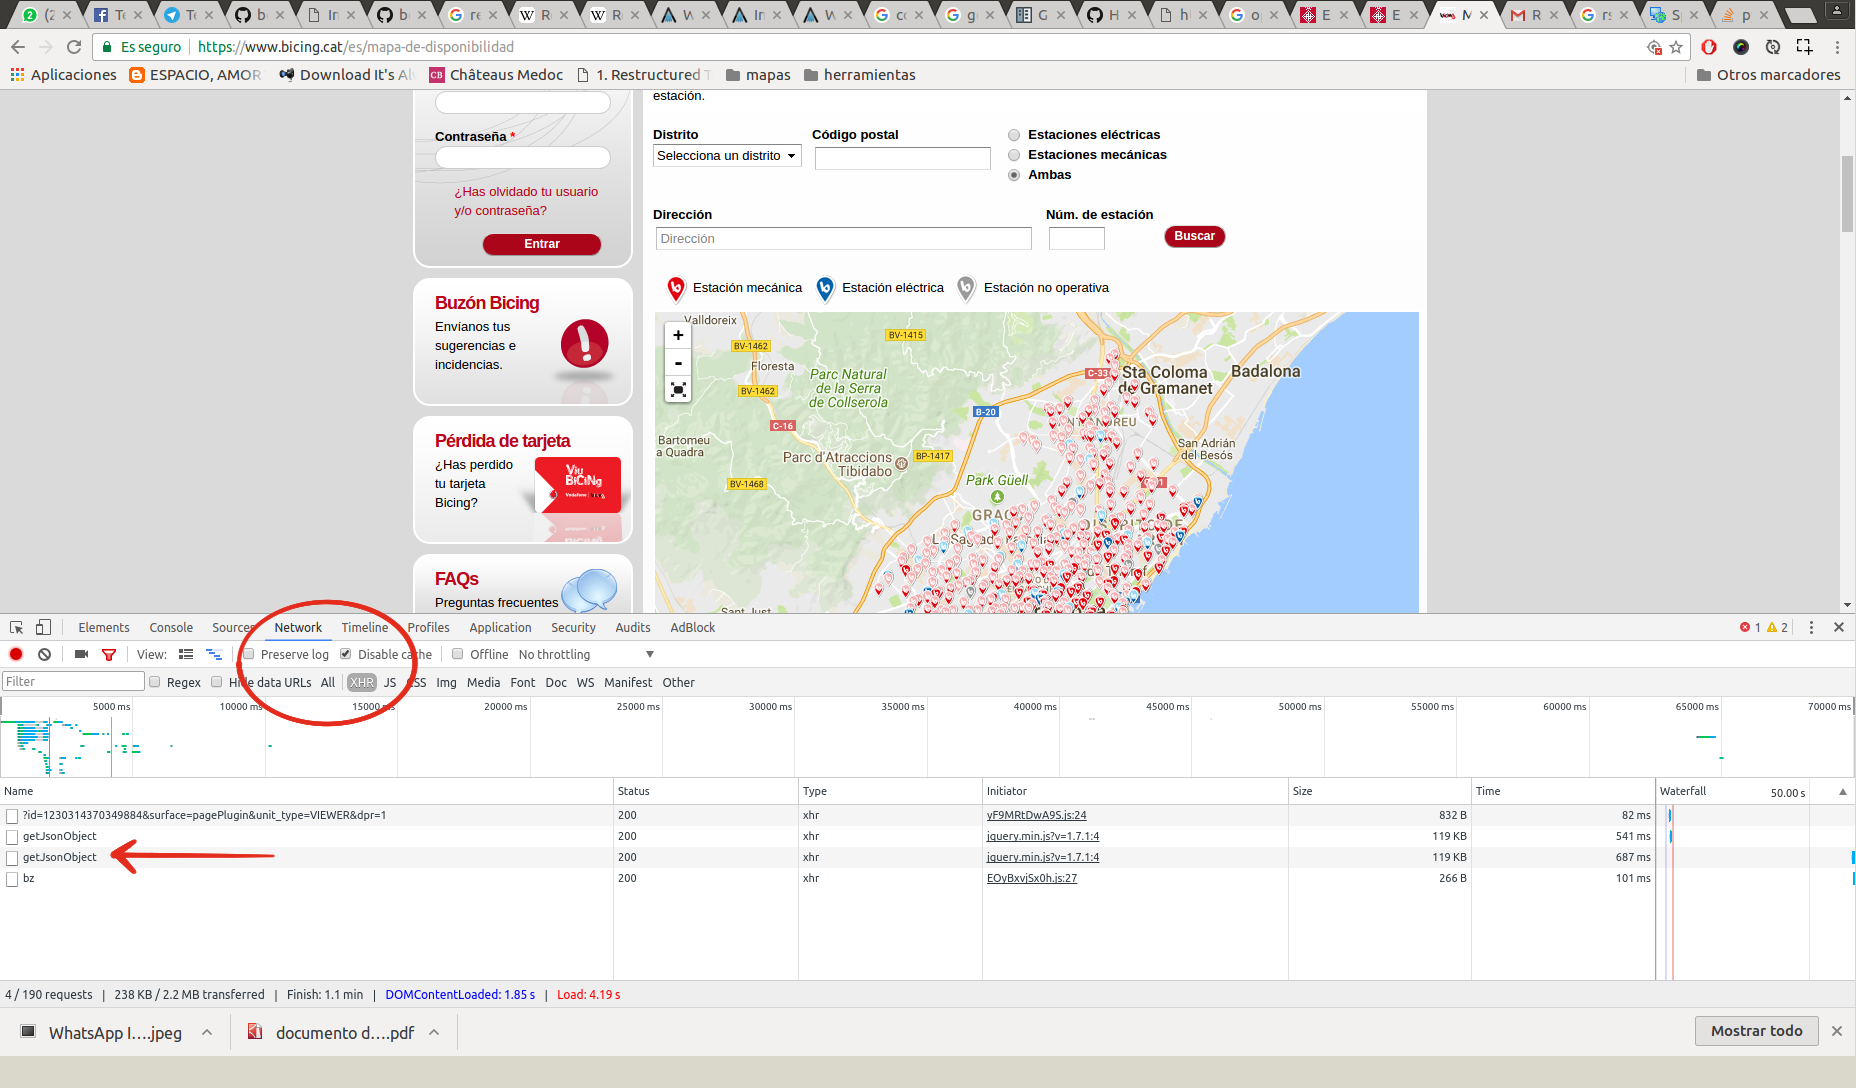
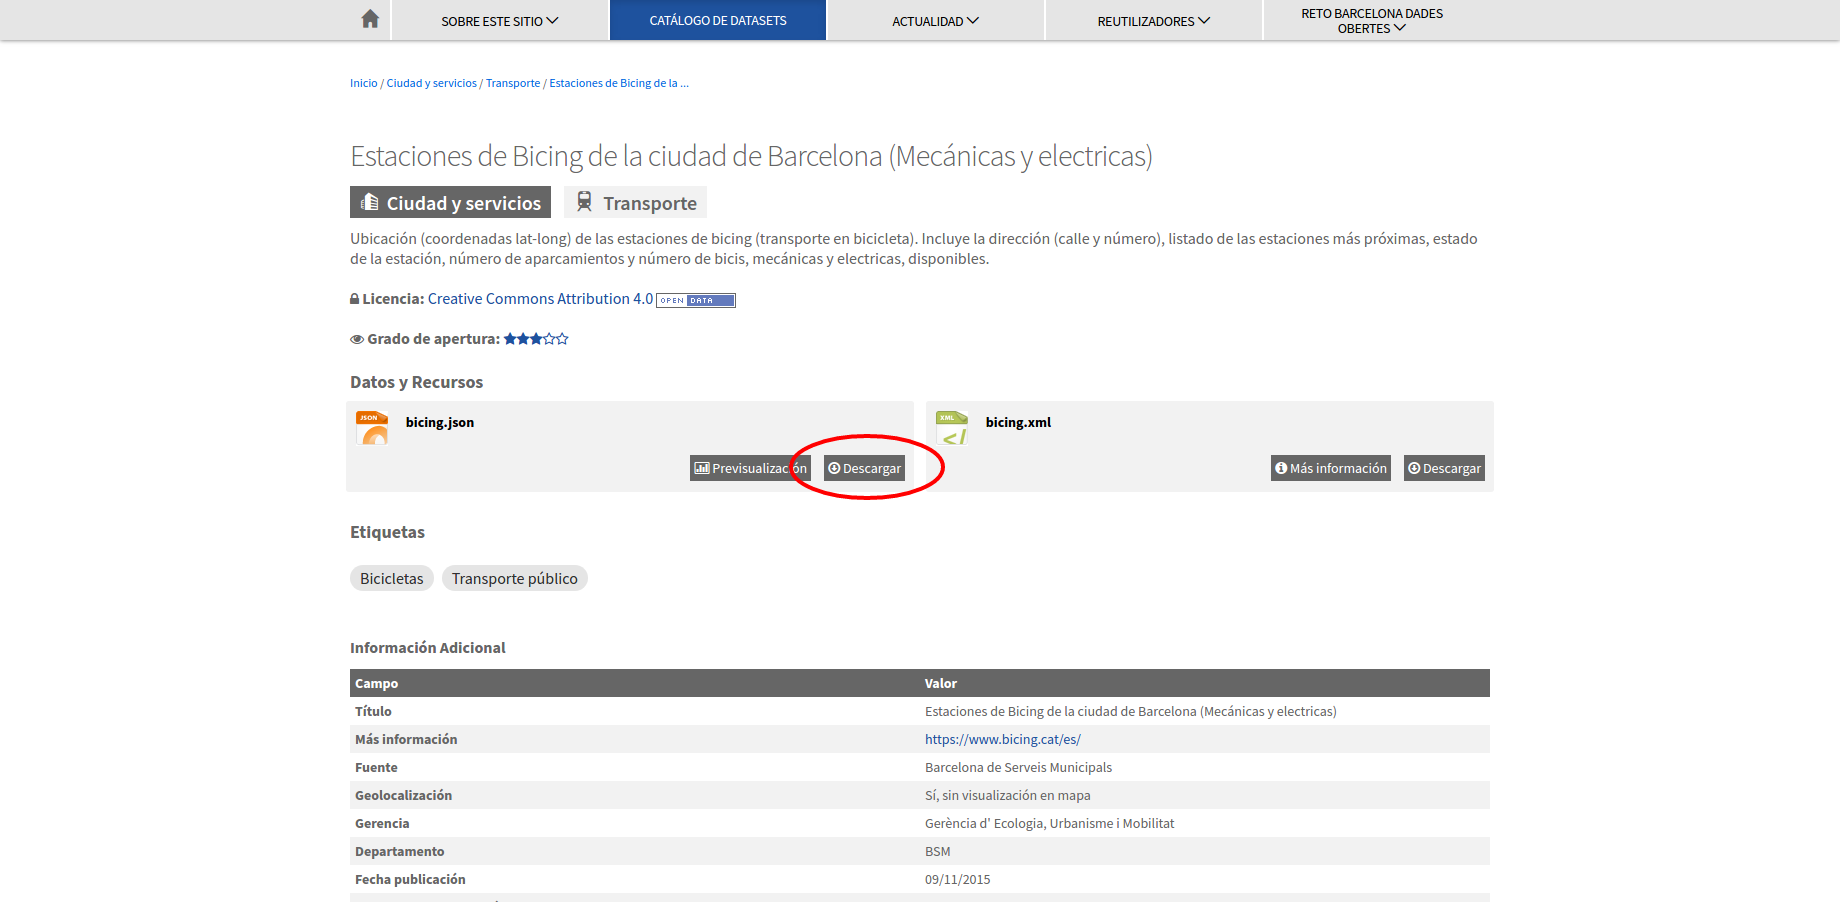
ejemplo bicing

diff --git a/ejemplo-servicio-bicing-bcn/ejemplo-servicio-bicing-bcn.rst b/ejemplo-servicio-bicing-bcn/ejemplo-servicio-bicing-bcn.rst
@@ -21,12 +21,7 @@ Acceso al servicio de datos del Bicing de Barcelona
 
 En el portal Open data del Ayuntamiento de Barcelona podemos encontrar un dataset (conjunto de datos) que contiene las `estaciones del servicio de Bicing <http://opendata-ajuntament.barcelona.cat/data/es/dataset/bicing>`_ 
 
-Si bien el Ayuntamiento de Barcelona no ofrece el acceso a los datos del Bicing como un servicio se pueden acceder a los datos del `mapa de disponibilidad <https://www.bicing.cat/es/mapa-de-disponibilidad>`_ . Para ellos abrimos el mapa de disponibilidad en el navegador y presionamos la tecla F12. 
-
-Con la tecla F12 desplegamos la barra de herramientas para desarrolladores. Esta barra entre otras cosas nos permite ver las peticiones que hace una página web. Para ver la url del servicio de estaciones de Bicing seleccionamos la pestaña de red (Network) y filtramo por XHR. Si no vemos ninguna petición recargamos la página presionando la tecla F5. 
-
-Al refrescar la página veremos dos peticiones, la que nos interesa es la que dice *getJsonObject*. La seleccionamos y copiamos la URL que sería https://www.bicing.cat/availability_map/getJsonObject.
-
+Si bien el Ayuntamiento de Barcelona no ofrece explicitamente el acceso a los datos del Bicing como un servicio si tiene un servicio que nos ofrece los datos en tiempo real. La url de este servicio la podemos encontrar si presionamos el botón de Descargar del recurso bicing.json 
 
 		.. |bicing_bcn| image:: _images/bicing.png
 		  :align: middle
@@ -37,8 +32,207 @@ Al refrescar la página veremos dos peticiones, la que nos interesa es la que di
 		+--------------+
 
 
+Si abrimos la url del servicio http://wservice.viabicing.cat/v2/stations en nuestro navegador podemos ver que la respuesta es un archivo json con un conjunto de elementos que tienen las coordenadas de la localización de la estación de bicing y también nos ofrece otros datos como la disponibilidad de bicis, las estaciones más cercanas, etc.
 
+El si bien archivo json que retorna el servicio tiene coordenadas no es un fichero GeoJSON [#]_.
+
+Para ver estos datos sobre un mapa crearemos un visor utilizando Leaflet [#]_.
+
+Creación de un visor 
+--------------------
+
+#. En nuestro ordenador creamos una carpeta con el nombre de *visor-bicing*.
+#. Dentro de esta carpeta creamos un archivo con el nombre de *index.html*.
+#. Abrimos el archivo index.html con un editor de texto y copiamos el siguiente código.::
+		<!DOCTYPE html>
+		<html>
+		<head>
+			<title>Servicio de Bicing realtime</title>
+			<link rel="stylesheet" href="https://unpkg.com/leaflet@1.2.0/dist/leaflet.css" />
+		    <style>
+		        #map {
+		            position: absolute;
+		            top: 0;
+		            left: 0;
+		            bottom: 0;
+		            right: 0;
+		        }
+		    </style>
+		</head>
+		<body>
+			<div id="map"></div>
+
+		    <script src="https://unpkg.com/leaflet@1.2.0/dist/leaflet.js"></script>
+		    <script type="text/javascript">
+		    	var map = L.map('map');
+
+		    	map.setView([41.3887, 2.1777], 13);
+			    
+
+				L.tileLayer('http://{s}.tile.osm.org/{z}/{x}/{y}.png', {
+				    attribution: '&copy; <a href="http://osm.org/copyright">OpenStreetMap</a> contributors'
+				}).addTo(map);
+				
+		    </script>
+		</body>
+		</html>
+
+#. Abrimos el archivo index.html en el navegador y vemos que se nos carga un mapa centrado en Barcelona.
+
+#. Agregar el plugin para cargar datos en tiempo real. Para ellos utilizaremos el plugin Leaflet Realtime [#]_. Para agregar el plugin copiaremos lo siguiente justo después de cuando cargamos la libreria de Leaflet.::
+
+		<script src="https://cdnjs.cloudflare.com/ajax/libs/leaflet-realtime/2.1.0/leaflet-realtime.min.js"></script>
+
+#. Agregar la capa de realtime del bicing a nuestro mapa. Siguiendo el ejemplo básico del plugin para cagar una capa debemos copiar lo siguiente al final de nuestro códogp de javascript.::
+
+		var realtime = L.realtime({
+	        url: 'http://wservice.viabicing.cat/v2/stations',
+	        crossOrigin: true,
+	        type: 'json'
+	    }, {
+	        interval: 3 * 1000
+	    }).addTo(map);
+
+#. Recargamos la página para ver nuestra capa de bicing y vemos que no aparece ningún dato, esto es debido a que estamos llamado a un servicio que no está en nuestro dominio y nos da un error de CORS [#]_. Abrimos la consola de desarrollador del navegador presionando F12 y vemos que cada 3 segundos nos aparece un error. Para evitar el error de CORS necesitamos un proxy [#]_ en nuestro servidor web que pueda hacer la llamada al servicio de bicing y que nos devuelva el contenido.
+
+#. Creación del proxy. En este caso crearemos un proxy utilizando Node.js [#]_
+
+#. Instalación de Node. Nos descargamos la última versión LTS (en este momento es la 8.9.1 LTS) y lo instalamos con las opciones por defecto. Una vez instalado el Node abrimos la consola para verificar que se ha instalado correctamente escribimos ::
+
+		node -v
+
+#. En la consola navegamos hasta nuestra carpeta *visor-bicing*. Una vez en la carpeta escribimos: ::
+
+		npm init
+
+	Con este comando estamos creando el archivo *package.json*. Este comando solicita varios elementos como, por ejemplo, el nombre y la versión de la aplicación. Por ahora, sólo hay que pulsar ENTER para aceptar los valores predeterminados.
+
+#. Instalar las dependencias para crear nuestro servicio de proxy. En este caso utilizaremos Express [#]_ como servidor web y el módulo http-proxy [#]_ .
+
+	#. Instalar el express y guardarlo en la lista de dependencias ::
+
+			npm install express --save
+
+	#. Instalar el http-proxy y guardarlo en la lista de dependencias ::
+
+			npm install http-proxy --save
+
+#. Al ejecutar estos comandos vemos que se nos crea una carpeta llamada *node_modules* que es donde se guardan los módulos que hemos instalado.
+
+#. En nuestra carpeta creamos un archivo llamado *app.js* que contendrá nuestra aplicación que servirá de proxy con el servicio de Bicing. Para ello copiremos lo siguiente en este archivo. ::
+
+		var express  = require('express');
+		var app      = express();
+		var httpProxy = require('http-proxy');
+		var apiProxy = httpProxy.createProxyServer();
+		var serverBicing = 'http://wservice.viabicing.cat/v2/stations';
+
+
+		app.use(express.static('public'));
+		 
+		app.all("/bicing/*", function(req, res) {
+		    console.log('redirecting to Server1');
+		    apiProxy.web(req, res, {
+		    	target: serverBicing,
+		    	changeOrigin: false, 
+		    	ignorePath: true
+		    });
+		});
+
+		app.listen(3000);
+
+#. Para probar que nuestro proxy está funcionando vamos a la consola y escribimos: ::
+
+		node app.js
+
+#. Abrimos la url de nuestro proxy http://localhost:3000/bicing/ en el navegador.
+
+#. Creamos una carpeta llamada *public* en nuestra carpeta y movemos el archivo index.html dentro de esa carpeta. Con esto ya podemos ver nuestra aplicación del mapa servida desde un servidor web y no abriendola directamente como habíamos ellos hasta ahora. 
+
+#. En el navegador escribimos http://localhost:3000 y debemos ver nuestro mapa.
+
+#. Modificamos el archivo index.html para que llame al proxy que hemos creado. Para ello cambiamos la url del servicio de bicing *http://wservice.viabicing.cat/v2/stations* por nuestro proxy *http://localhost:3000/bicing/* (como el proxy y la aplicación están en el mismo servidor podríamos usar */bicing/*). Recargamos la aplicación con Ctrl+F5 y vemos que el error que nos da ahora es diferente.
+
+	En este caso el error es *Error: Invalid GeoJSON object.*. Este error es debido a lo que ya comentamos que la respuesta del servicio de Bicing no es un GeoJSON.
+
+#. Antes de la declaración de nuestra capa de realtime creamos una variable llamada geojson que será la que contendrá el GeoJSON resultante de la transformación. ::
+
+		var geojson = {
+            type: 'FeatureCollection',
+            features: []
+        };
+
+#. Modificar la aplicación para transformar la respuesta del bicing en un GeoJSON, para ello debemos modificar nuestra capa realtime con el siguiente código ::
+
+		var realtime = L.realtime(function(success, error) {
+	        fetch('/bicing/')
+	        .then(function(response) { 
+	        	return response.json(); 
+	        })
+	        .then(function(data) {
+	        	var stations = data.stations;
+	        	for (var i = stations.length - 1; i >= 0; i--) {
+	        		var station = stations[i];
+	        		var feature = {
+				        type: 'Feature',
+				        properties: {
+				            altitude: station.altitude,
+				            bikes: station.bikes,
+				            id: station.id,
+				            nearbyStations: station.nearbyStations,
+				            slots: station.slots,
+				            status: station.status,
+				            streetName: station.streetName,
+				            streetNumber: station.streetNumber,
+				            type: station.type
+				        },
+				        geometry: {
+				            type: 'Point',
+				            coordinates: [station.longitude, station.latitude]
+				        }
+				    };
+				    geojson.features.push(feature);
+	        	}
+	            success(geojson);
+	        })
+	        .catch(error);
+	    }, {
+	        interval: 3 * 1000
+	    }).addTo(map);
+
+#. Recargamos la aplicación y debemos ver los puntos de las estaciones de bicing. Si vamos a la pestaña de red (network) en la consola de desarrollador del navegador podemos ver que cada 3 segundos se hace una llamada a nuetro proxy.
+
+#. Ver información de la estación al seleccionarla. Para ver la información crearemos un popup en cada uno de los elementos de la capa realtime. Justo desdepues de donde definimos el intervalo escribimos ::
+
+		,onEachFeature(f, l) {
+            l.bindPopup(function() {
+                return '<h3>' + f.properties.id + '</h3>' +
+                    '<p>' + f.properties.streetName +
+                    '<br/>bike: <strong>' + f.properties.bikes + '</strong></p>' +
+                    '<p>slots: ' + f.properties.slots + '</p>';
+            });
+    	} 
+
+#. Recargamos la página y si hacemos click sobre alguna estación podemos ver su información en tiempo real.
+
+
+		.. |mapa_bicing_bcn| image:: _images/mapa_bicing.png
+		  :align: middle
+		  :alt: mapa de servicio de bicing
+
+		+-------------------+
+		| |mapa_bicing_bcn| |
+		+-------------------+
 
 
 Referencias
 ###########
+
+.. [#] https://es.wikipedia.org/wiki/GeoJSON
+.. [#] http://leafletjs.com/
+.. [#] https://github.com/perliedman/leaflet-realtime
+.. [#] https://developer.mozilla.org/es/docs/Web/HTTP/Access_control_CORS
+.. [#] https://es.wikipedia.org/wiki/Servidor_proxy
+.. [#] https://nodejs.org/es/
+.. [#] http://expressjs.com/
+.. [#] https://github.com/nodejitsu/node-http-proxy
